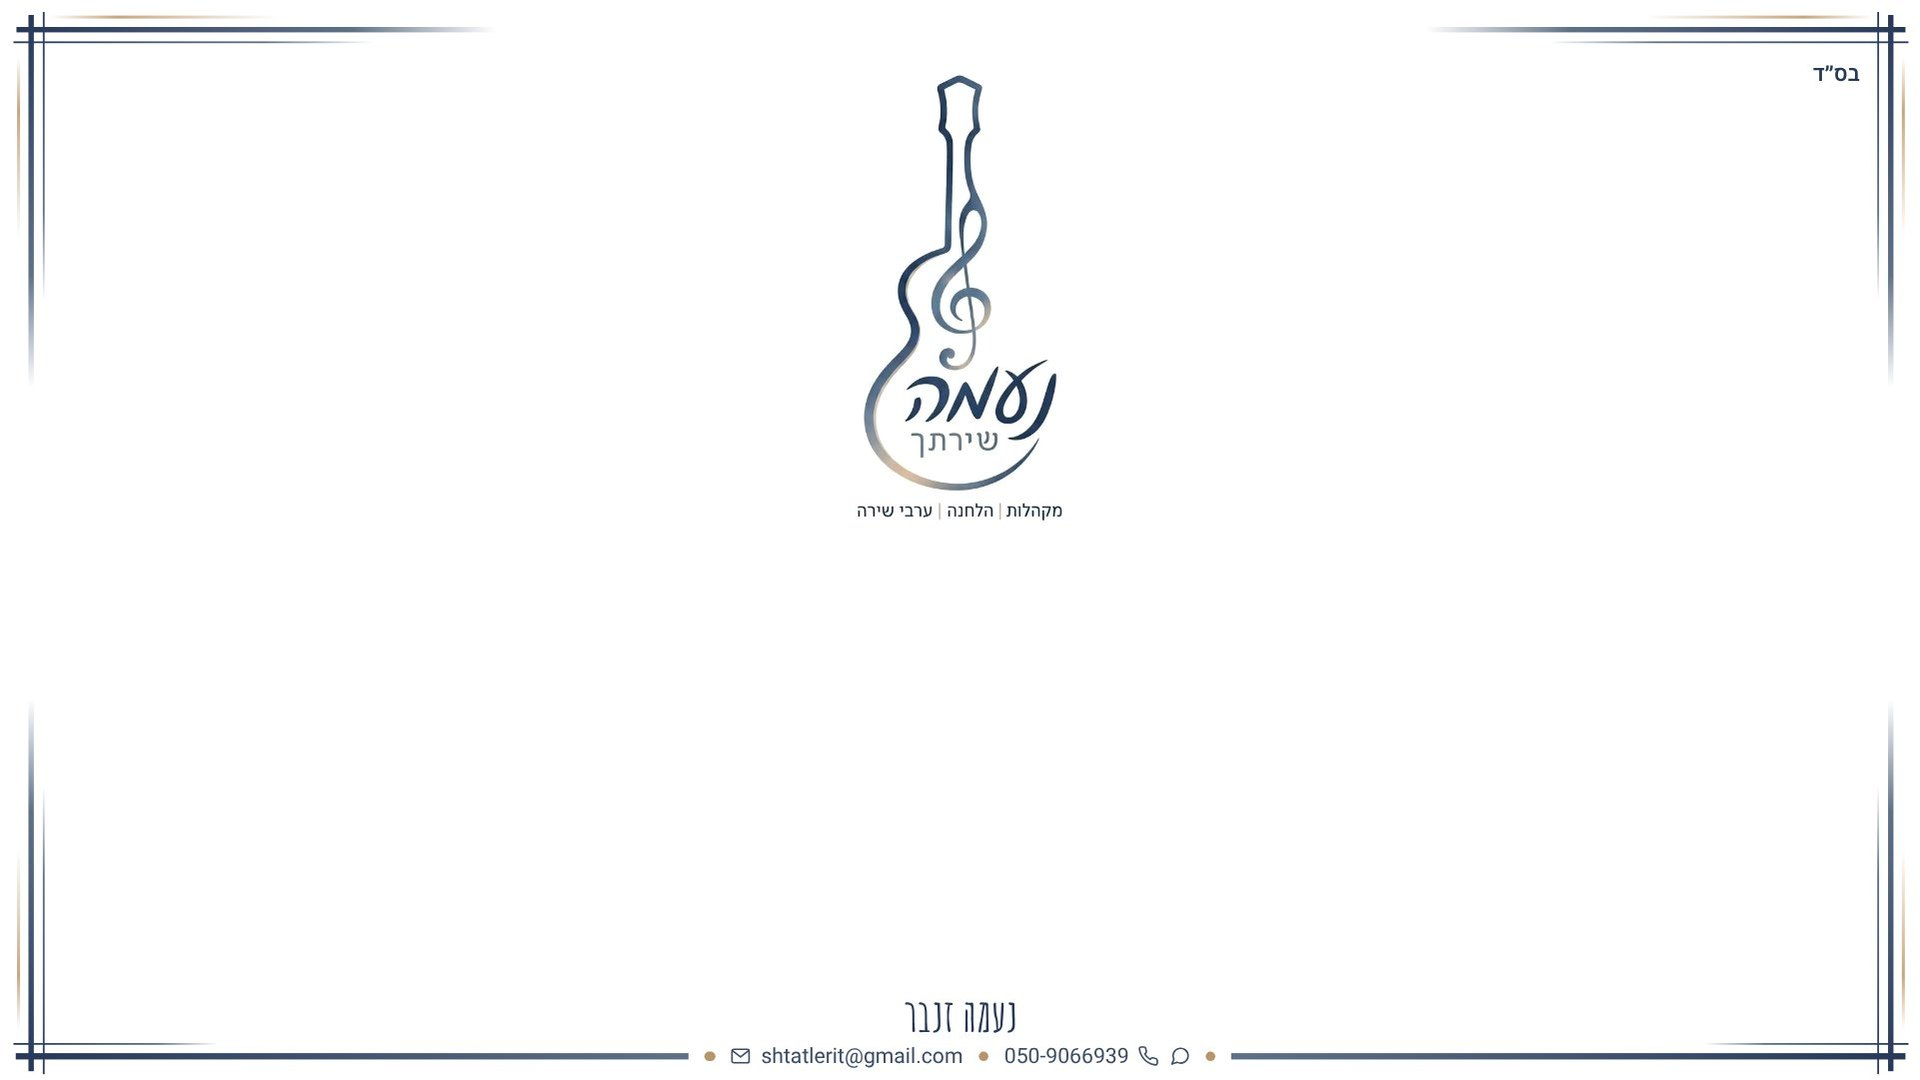
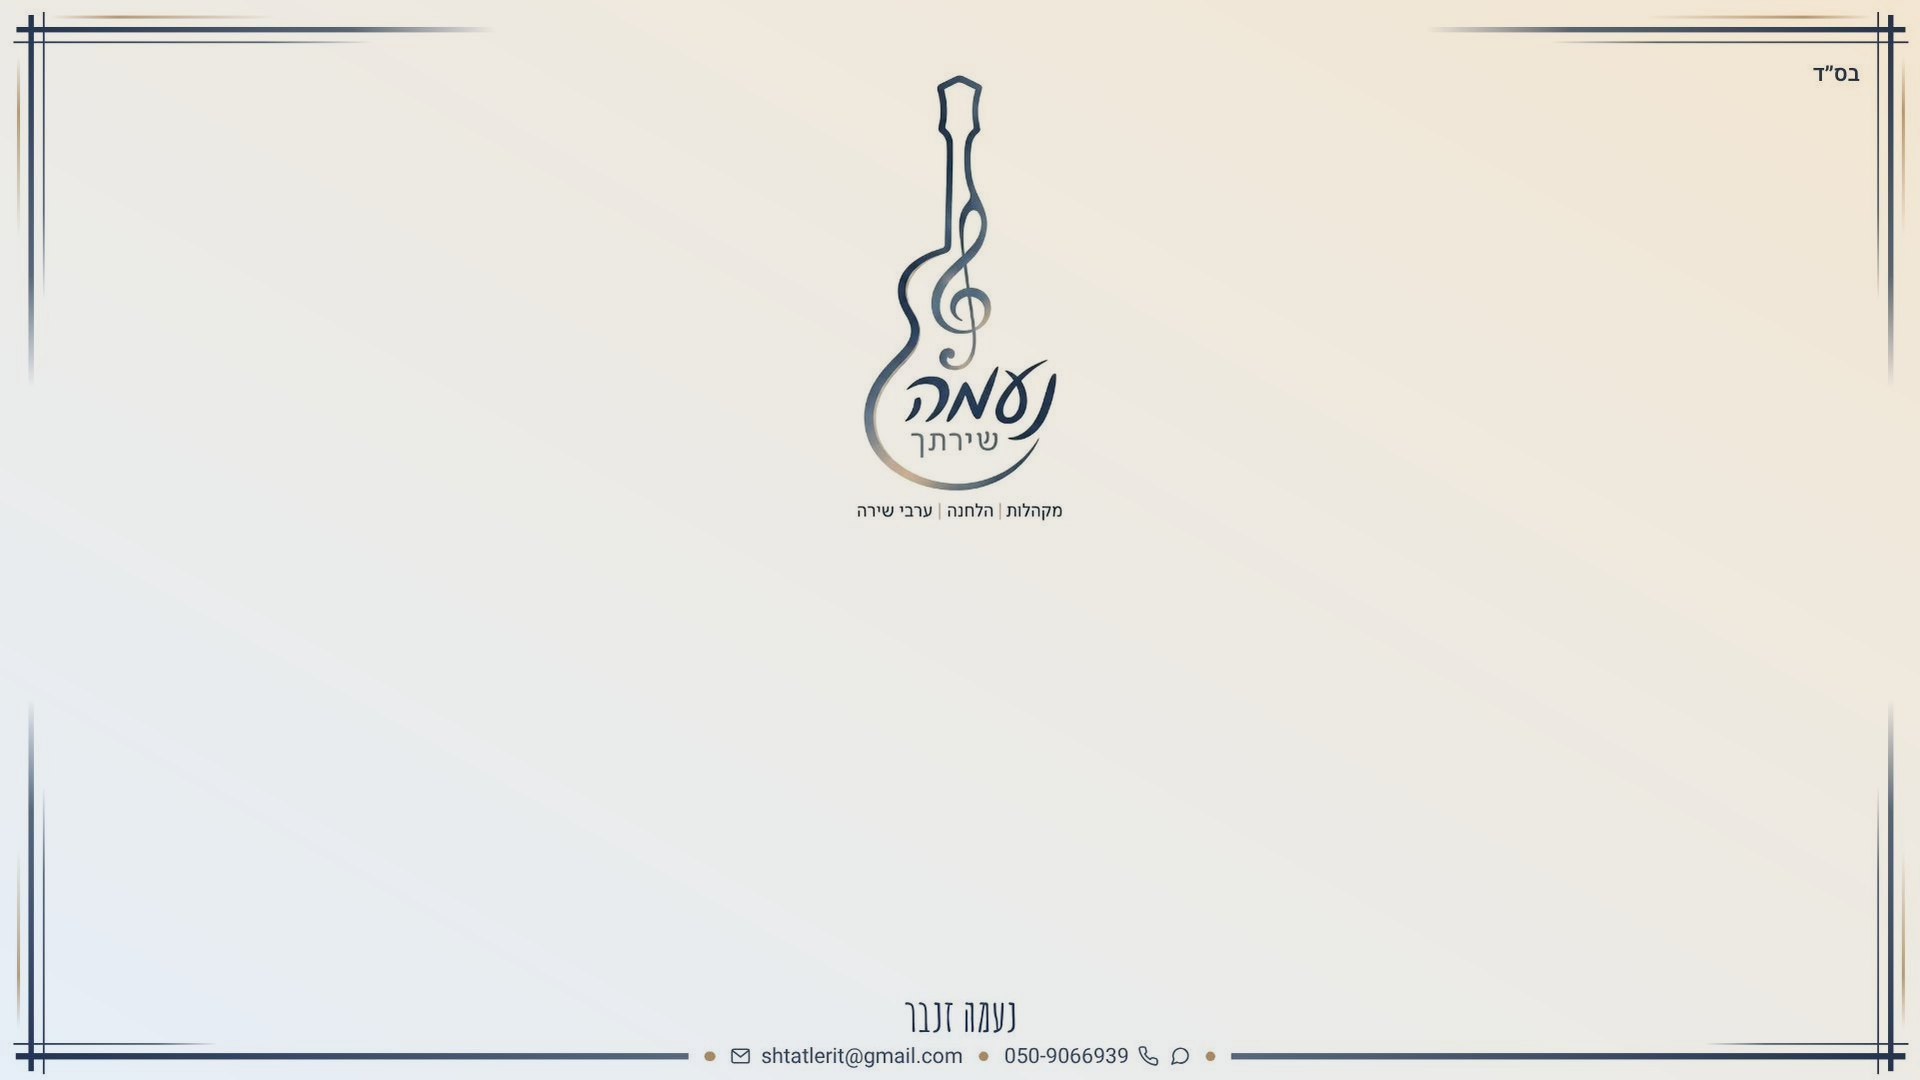
Presentation: whole song on one slide, soft colours changing per song
One or two balanced columns at the largest font that fits; only a very
long song continues. Five gently tinted backgrounds alternate by song;
the cover has a cream-to-sky gradient.

Claude-Session: https://claude.ai/code/session_01C92Fsp5gknrqqKDFt48GsQ

diff --git a/js/slides.js b/js/slides.js
@@ -1,12 +1,12 @@
 // Song presentation (מצגת שירים): 16:9 slides on the logo-page style background.
 // Cover: Naama's logo, the event title and the date (Hebrew + Gregorian). Songs are numbered
 // by their order in the presentation; a long song continues on further slides, never splitting a stanza.
-import { bookDates } from './songbook.js?v=20261124-1808';
-import { markChoruses, stripNiqqud } from './parse.js?v=20261124-1808';
+import { bookDates } from './songbook.js?v=20261124-1817';
+import { markChoruses, stripNiqqud } from './parse.js?v=20261124-1817';
 
 const esc = (s) => String(s ?? '').replace(/[&<>"]/g, (c) => ({ '&': '&amp;', '<': '&lt;', '>': '&gt;', '"': '&quot;' }[c]));
-const MAX_FONT = 44, MIN_FONT = 16; // pt, on a 320×180 mm slide: projected, it must read from the back of a hall
-const ONE_SLIDE_MIN = 32; // a whole song stays on one slide only if it is still this large
+const MAX_FONT = 34, MIN_FONT = 14; // pt, on a 320×180 mm slide. A whole song goes on one slide (it is projected large)
+const TINTS = 5; // img/slide-bg-1..5.jpg: soft hues that change from song to song
 
 // full choruses instead of "first line..." references: on a screen everyone sings from the slide
 function stanzasOf(song, noNiqqud) {
@@ -21,10 +21,13 @@ function stanzaHTML(s) {
   const lbl = s.type === 'chorus' ? '<div class="lbl">פזמון</div>' : '';
   return `<div class="${cls}">${lbl}${s.lines.map((l) => `<div class="lt">${esc(l.t) || '&nbsp;'}</div>`).join('')}</div>`;
 }
-function songSlide(num, song, stanzas, cont) {
-  return `<section class="page slide full"><img class="bg" src="img/slide-bg.jpg" alt="">
+function songSlide(num, song, stanzas, cont, split = null) {
+  const tint = ((num - 1) % TINTS) + 1;
+  const body = split == null ? stanzas.map(stanzaHTML).join('')
+    : `<div class="sl-col">${stanzas.slice(0, split).map(stanzaHTML).join('')}</div><div class="sl-col">${stanzas.slice(split).map(stanzaHTML).join('')}</div>`;
+  return `<section class="page slide full"><img class="bg" src="img/slide-bg-${tint}.jpg" alt="">
     <div class="sl-head"><span class="sl-num">${num}</span><span class="sl-title">${esc(song.title || 'שיר')}</span>${cont ? '<span class="sl-cont">(המשך)</span>' : ''}</div>
-    <div class="sl-body">${stanzas.map(stanzaHTML).join('')}</div></section>`;
+    <div class="sl-body${split == null ? '' : ' two'}">${body}</div></section>`;
 }
 
 let stage;
@@ -37,26 +40,39 @@ function fits(html, fs) {
   return ![...sl.querySelectorAll('.lt')].some((l) => l.scrollWidth > l.clientWidth + 1);
 }
 
-// Largest font at which every stanza fits a slide on its own; then fill slides with whole stanzas.
+function bestFont(html) {
+  if (!fits(html, MIN_FONT)) return 0;
+  let lo = MIN_FONT, hi = MAX_FONT;
+  if (fits(html, hi)) return hi;
+  while (hi - lo > 0.25) { const m = (lo + hi) / 2; if (fits(html, m)) lo = m; else hi = m; }
+  return Math.floor(lo * 2) / 2;
+}
+const rows = (arr) => arr.reduce((n, s) => n + s.lines.length + 1, 0);
+// The whole song on one slide: one column, or two balanced columns when that gives a clearly larger font.
+function layoutGroup(num, song, st, cont) {
+  let best = { split: null, fs: bestFont(songSlide(num, song, st, cont)) };
+  const total = rows(st);
+  for (let k = 1; k < st.length; k++) {
+    if (Math.abs(rows(st.slice(0, k)) * 2 - total) > total * 0.5) continue; // only roughly balanced splits
+    const fs = bestFont(songSlide(num, song, st, cont, k));
+    if (fs > best.fs + 2 || (best.split != null && fs > best.fs)) best = { split: k, fs };
+  }
+  return best;
+}
 function slidesForSong(num, song, opts) {
   const st = stanzasOf(song, opts.noNiqqud);
   if (!st.length) return [];
-  let fs = MIN_FONT;
-  for (let f = MAX_FONT; f >= MIN_FONT; f -= 1) {
-    if (st.every((s) => fits(songSlide(num, song, [s], false), f))) { fs = f; break; }
-  }
-  // if the whole song fits on one slide at a font not much smaller, prefer one slide
-  for (let f = fs; f >= Math.max(ONE_SLIDE_MIN, fs - 6); f -= 1) {
-    if (fits(songSlide(num, song, st, false), f)) return [{ html: songSlide(num, song, st, false), fs: f }];
-  }
+  const one = layoutGroup(num, song, st, false);
+  if (one.fs) return [{ html: songSlide(num, song, st, false, one.split), fs: one.fs }];
+  // very long song: whole stanzas over as few slides as possible, each laid out the same way
   const out = []; let cur = [];
   for (const s of st) {
     const next = [...cur, s];
-    if (!cur.length || fits(songSlide(num, song, next, out.length > 0), fs)) cur = next;
+    if (!cur.length || layoutGroup(num, song, next, out.length > 0).fs >= 18) cur = next;
     else { out.push(cur); cur = [s]; }
   }
   if (cur.length) out.push(cur);
-  return out.map((group, i) => ({ html: songSlide(num, song, group, i > 0), fs }));
+  return out.map((g, i) => { const L = layoutGroup(num, song, g, i > 0); return { html: songSlide(num, song, g, i > 0, L.split), fs: L.fs || MIN_FONT }; });
 }
 
 export function coverSlide(show) {

diff --git a/js/app.js b/js/app.js
@@ -1,9 +1,9 @@
-import { parseImport, mergeChords, toText, fromText, stripMdLinks, markChoruses, isJunk } from './parse.js?v=20261124-1808';
-import { computeLayout, pagesHTML } from './layout.js?v=20261124-1808';
-import { savePdf, saveWord, sharePdf } from './export.js?v=20261124-1808';
-import { buildSlides, present } from './slides.js?v=20261124-1808';
-import { buildBook, bookDates } from './songbook.js?v=20261124-1808';
-import { vocalize } from './niqqud.js?v=20261124-1808';
+import { parseImport, mergeChords, toText, fromText, stripMdLinks, markChoruses, isJunk } from './parse.js?v=20261124-1817';
+import { computeLayout, pagesHTML } from './layout.js?v=20261124-1817';
+import { savePdf, saveWord, sharePdf } from './export.js?v=20261124-1817';
+import { buildSlides, present } from './slides.js?v=20261124-1817';
+import { buildBook, bookDates } from './songbook.js?v=20261124-1817';
+import { vocalize } from './niqqud.js?v=20261124-1817';
 
 const APP_URL = 'https://shtatlerit.github.io/Naama/';
 const NAAMA_EMAIL = 'shtatlerit@gmail.com';
@@ -41,7 +41,7 @@ async function initStore() {
     import(`https://www.gstatic.com/firebasejs/${V}/firebase-app.js`),
     import(`https://www.gstatic.com/firebasejs/${V}/firebase-auth.js`),
     import(`https://www.gstatic.com/firebasejs/${V}/firebase-firestore.js`),
-    import('./firebase-config.js?v=20261124-1808'),
+    import('./firebase-config.js?v=20261124-1817'),
   ]);
   const app = initializeApp(firebaseConfig);
   const auth = A.getAuth(app);
@@ -92,7 +92,7 @@ let cur = null;           // current song
 let view = { kind: 'choir', print: 'text', layoutPick: 'one', voicing: false };
 let lastLayout = null;
 let lastChosen = null;
-const APP_VERSION = '20261124-1808'; // set by tools/stamp.py
+const APP_VERSION = '20261124-1817'; // set by tools/stamp.py
 // Self-update: phones keep the old page for up to ~10 minutes. On every open (and when the app comes back
 // to the screen) ask the server for the current version without cache; if it is newer, reload onto it.
 async function checkUpdate() {

diff --git a/index.html b/index.html
@@ -12,8 +12,8 @@
 <meta name="apple-mobile-web-app-title" content="נעמה">
 <link rel="preconnect" href="https://fonts.googleapis.com">
 <link href="https://fonts.googleapis.com/css2?family=Heebo:wght@400;500;700&display=swap" rel="stylesheet">
-<link rel="stylesheet" href="css/app.css?v=20261124-1808">
-<link rel="stylesheet" href="css/page.css?v=20261124-1808">
+<link rel="stylesheet" href="css/app.css?v=20261124-1817">
+<link rel="stylesheet" href="css/page.css?v=20261124-1817">
 <script src="https://cdnjs.cloudflare.com/ajax/libs/qrcode-generator/1.4.4/qrcode.min.js" defer></script>
 </head>
 <body>
@@ -72,7 +72,7 @@
       <a href="install.html">התקנת הכפתור "עצב לנעמה" לשירונט</a>
       <button id="btn-book" class="btn ghost small">📖 בונה שירון</button>
       <button id="btn-show" class="btn ghost small">🎤 מצגת שירים</button>
-      <span class="soon" id="ver">גרסה 20261124-1808</span>
+      <span class="soon" id="ver">גרסה 20261124-1817</span>
     </div>
   </section>
 
@@ -223,6 +223,6 @@
 </div>
 
 <div id="print-root"></div>
-<script type="module" src="js/app.js?v=20261124-1808"></script>
+<script type="module" src="js/app.js?v=20261124-1817"></script>
 </body>
 </html>

diff --git a/install.html b/install.html
@@ -6,7 +6,7 @@
 <title>הכפתור לשירונט</title>
 <link rel="icon" href="img/icon-192.png">
 <link href="https://fonts.googleapis.com/css2?family=Heebo:wght@400;700&display=swap" rel="stylesheet">
-<link rel="stylesheet" href="css/app.css?v=20261124-1808">
+<link rel="stylesheet" href="css/app.css?v=20261124-1817">
 <style>
   ol { padding-inline-start: 22px; line-height: 1.7; margin: 0; }
   .bm { display: inline-block; background: var(--navy); color: #fff; padding: 12px 20px; border-radius: 10px; font-weight: 700; text-decoration: none; font-size: 18px; cursor: grab; }
@@ -38,7 +38,7 @@
   </div>
 </div>
 <script type="module">
-  import { grab } from './js/grab.js?v=20261124-1808';
+  import { grab } from './js/grab.js?v=20261124-1817';
   const href = 'javascript:' + encodeURIComponent('(' + grab.toString().replace(/\s+/g, ' ') + ')()');
   document.getElementById('bm').href = href;
   document.getElementById('bm').onclick = (e) => { e.preventDefault(); alert('צריך לגרור את הכפתור לסרגל הסימניות, לא ללחוץ עליו כאן'); };

diff --git a/css/page.css b/css/page.css
@@ -84,3 +84,7 @@
 .page.slide .st { font-size: inherit; margin: 0 0 0.55em; }
 .page.slide .st:last-child { margin-bottom: 0; }
 .page.slide .lt { font-size: inherit; line-height: 1.3; }
+.slide .sl-body.two { flex-direction: row; align-items: center; justify-content: center; gap: 0; }
+.slide .sl-body.two .sl-col { flex: 1 1 0; min-width: 0; display: flex; flex-direction: column; align-items: center; justify-content: center; padding: 0 5mm; }
+.slide .sl-body.two .sl-col + .sl-col { border-right: 0.35mm solid rgba(176,138,94,.55); }
+.slide .sl-head .sl-title { color: var(--navy); }

diff --git a/js/songbook.js b/js/songbook.js
@@ -1,7 +1,7 @@
 // Songbook: a cover (logo page with a stronger watermark), a table of contents and the chosen songs,
 // in the order Naama sets, with page numbers. Two short songs may share a page.
-import { computeLayout } from './layout.js?v=20261124-1808';
-import { markChoruses } from './parse.js?v=20261124-1808';
+import { computeLayout } from './layout.js?v=20261124-1817';
+import { markChoruses } from './parse.js?v=20261124-1817';
 
 const esc = (s) => String(s ?? '').replace(/[&<>"]/g, (c) => ({ '&': '&amp;', '<': '&lt;', '>': '&gt;', '"': '&quot;' }[c]));
 

diff --git a/js/layout.js b/js/layout.js
@@ -1,6 +1,6 @@
 // Renders a song onto A4 logo pages and finds the largest font that fits.
 // Page geometry (mm) matches the printed logo page: text area from 46mm top, 10mm sides, 16mm bottom.
-import { transposeChords, stripNiqqud } from './parse.js?v=20261124-1808';
+import { transposeChords, stripNiqqud } from './parse.js?v=20261124-1817';
 
 export const GEOM = { top: 46, side: 10, bottom: 16, qr: 24 };
 const MIN_FONT = 12, MAX_FONT = 30;

diff --git a/js/export.js b/js/export.js
@@ -1,5 +1,5 @@
 // Save the current song as PDF (exact picture of the preview pages) or Word (editable, on the logo template).
-import { transposeChords, stripNiqqud } from './parse.js?v=20261124-1808';
+import { transposeChords, stripNiqqud } from './parse.js?v=20261124-1817';
 
 const loaded = {};
 function loadScript(src) {

diff --git a/tests/layout.test.py b/tests/layout.test.py
@@ -63,9 +63,10 @@ with sync_playwright() as pw:
                  fs: parseFloat(getComputedStyle(s.querySelector('.lt') || s).fontSize) } })""")
     ok(sl[0]['cover'] and 'כ״ו בכסלו תשפ״ז' in sl[0]['date'] and '2026' in sl[0]['date'], 'presentation: cover with Hebrew and Gregorian date')
     nums = [x['num'] for x in sl[1:]]
-    ok(nums == sorted(nums, key=int) and nums[0] == '1' and len(set(nums)) == 3, f'presentation: songs numbered by order {sorted(set(nums))}')
+    ok(nums == ['1', '2', '3'], f'presentation: one slide per song, numbered by order {nums}')
     ok(not any(x['over'] for x in sl), 'presentation: nothing overflows or breaks a line')
-    ok(min(x['fs'] for x in sl[1:]) >= 21, f"presentation: lyrics large enough to project (min {min(x['fs'] for x in sl[1:]):.0f}px)")
+    ok(min(x['fs'] for x in sl[1:]) >= 18, f"presentation: lyrics large enough to project (min {min(x['fs'] for x in sl[1:]):.0f}px)")
+    ok(len(set(pg.evaluate("() => [...document.querySelectorAll('#bk-preview .slide .bg')].slice(1).map(i => i.getAttribute('src'))"))) == 3, 'presentation: each song in its own soft colour')
     pg.click('#bk-present'); pg.wait_for_timeout(300); pg.keyboard.press('ArrowLeft'); pg.wait_for_timeout(100)
     ok(pg.inner_text('.pr-n').startswith('2 /'), 'presentation: full screen, arrow moves to next slide')
     pg.keyboard.press('Escape')

diff --git a/CLAUDE.md b/CLAUDE.md
@@ -40,10 +40,11 @@
 - גרסת מקהלה או גרסת אקורדים (לשירים שיש להם אקורדים), עם מספר עותקים. "דף מלא" כברירת מחדל (מכון).
 
 ## מצגת שירים (js/slides.js, כפתור "מצגת שירים" – אותו מסך של השירון במצב 'show')
-- שקופיות 16:9 (320×180 מ"מ) על רקע בסגנון דף הלוגו: מסגרת, לוגו בפינה, סימן מים, שם ופרטים בתחתית (`img/slide-bg.jpg`).
+- שקופיות 16:9 (320×180 מ"מ) על רקע בסגנון דף הלוגו: מסגרת, לוגו בפינה, סימן מים, שם ופרטים בתחתית.
 - שער תמיד עם הלוגו של נעמה (`img/slide-cover.jpg`), כותרת לאירוע לפי בחירה, ותאריך עברי + לועזי מלוח שנה.
 - השירים ממוספרים לפי סדר הופעתם במצגת (עיגול זהב ליד השם). שיר ארוך ממשיך בשקופית הבאה עם "(המשך)"; בית לא נחתך.
-- כתב גדול להקרנה: הגודל הכי גדול (עד 44pt) שבו כל בית נכנס לבד; פזמונים מלאים (בלי "…"). שיר שלם בשקופית אחת רק אם הכתב עדיין 32pt לפחות.
+- **שיר שלם בשקופית אחת** (מוקרן על מסך גדול): הכתב הכי גדול שנכנס, 14–34pt; שתי עמודות מאוזנות כשזה נותן כתב גדול בבירור. רק שיר ארוך מאוד ממשיך לשקופית נוספת. פזמונים מלאים (בלי "…").
+- צבע: רקע בגוונים עדינים שמתחלפים משיר לשיר (`img/slide-bg-1..5.jpg`: שמנת, תכלת, מרווה, לבנדר, אפרסק); השער במעבר שמנת–תכלת.
 - הצגה במסך מלא: רווח / חץ שמאלה / הקשה בצד שמאל / החלקה ימינה – הבא; חץ ימינה – הקודם; Esc – יציאה. גם PDF לרוחב ושליחה בוואטסאפ.
 
 ## החלטות מוצר
@@ -68,3 +69,4 @@
 | 2026-11-01 | – | אפליקציית מסך הבית באייפון נשארה על גרסה ישנה | האפליקציה בודקת את version.txt בכל פתיחה ועוברת לבד לגרסה החדשה |
 | 2026-11-01 | נרותי הזעירים | בכותרת הופיע תפריט האתר ("הכל שירים מילים לשירים אמנים") – השיר מתחיל בשם שלו | הכותרת נמצאת מעל גוש המילים, לפי כמה שורות; ייבוא חוזר מתקן כותרת שגויה ששמורה ברפרטואר |
 | 2026-11-09 | – | PDF שנשלח מהאייפון יצא דף ריק, בלי לוגו | הרקע נכנס ל-PDF ישירות כתמונה; רק שכבת הטקסט מצולמת מ-HTML; צילום ריק מזוהה ומנוסה שוב, ואז html2canvas |
+| 2026-11-24 | מצגת | בית אחד בשקופית בכתב ענק – מוגזם למסך גדול | שיר שלם בשקופית, עמודה אחת או שתיים |
